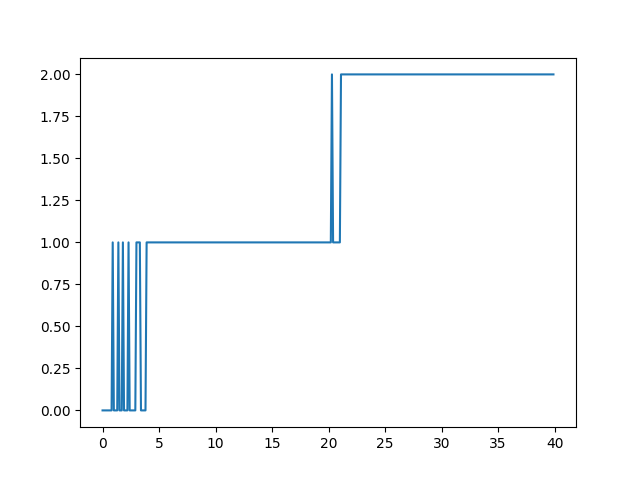
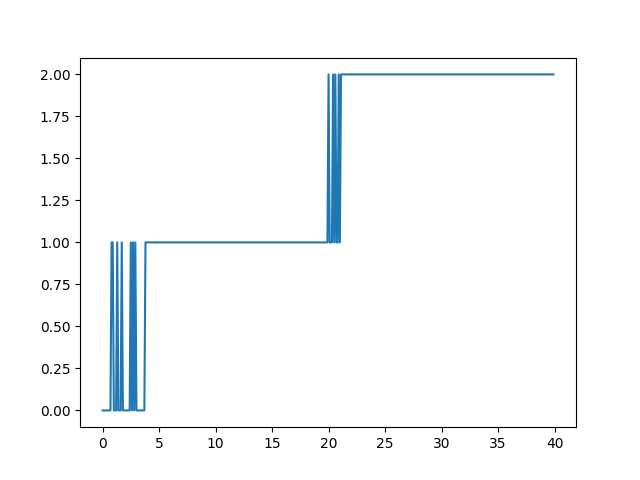
updated parameters

Changed region(s): [[0.1562, 0.5, 0.25, 0.875], [0.5, 0.1562, 0.5312, 0.5312]]

diff --git a/components/client_oracle.py b/components/client_oracle.py
@@ -74,7 +74,7 @@ class Oracle():
         self.client_dataset = np.zeros_like(self.client_dataset)
         for client in range(self.n_clients):
             p_client = np.random.dirichlet(self.client_dirichlet_alpha_class)
-            p_client = [0.2,0.8,0,0,0,0,0,0,0,0]
+            p_client = [0.33,0.33,0.34,0,0,0,0,0,0,0]
             np.random.shuffle(p_client)
             
             clients_class_indices = np.random.choice(np.arange(self.n_classes), size = self.n_datapoints,p = p_client)
@@ -96,28 +96,30 @@ class Oracle():
         #### Sample datapoints for each client 
         self.client_dataset_selection_matrix = np.zeros((self.n_clients,self.n_classes))
         #### Compute probability of each class for each client
-        p_class = np.ones((self.n_classes,1))
+        p_class = np.zeros((self.n_classes,))
         learner_class_preference = np.array(learner_class_preference)
-        p_class[learner_class_preference] = self.dist_classes[u].reshape(-1,1)
+        
+        p_class[learner_class_preference] = 1# self.dist_classes[u].reshape(-1,1)
         ### Set other values to 1 - 2*self.dist_classes[u]
-        other_classes = [i for i in range(self.n_classes) if i not in learner_class_preference]
-        p_class[other_classes] = (1 - sum(self.dist_classes[u]))/(self.n_classes-len(self.dist_classes[u]))
-        p_class = p_class.flatten()
-        participating_clients = np.where(self.client_selection_matrix==1)[0]
-        class_coefficient = self.client_class_coefficient[participating_clients].mean(axis=0)
-        class_coefficient = class_coefficient/np.sum(class_coefficient)
-        p_class = p_class*class_coefficient + 1e-6
+        # other_classes = [i for i in range(self.n_classes) if i not in learner_class_preference]
+        # p_class[other_classes] = (1 - sum(self.dist_classes[u]))/(self.n_classes-len(self.dist_classes[u]))
+        # p_class = p_class.flatten()
+        # participating_clients = np.where(self.client_selection_matrix==1)[0]
+        # class_coefficient = self.client_class_coefficient[participating_clients].mean(axis=0)
+        # class_coefficient = class_coefficient/np.sum(class_coefficient)
+        # p_class = p_class*class_coefficient + 1e-6
         p_class = p_class/np.sum(p_class)
+        # print("p_class: ",p_class)
         for client in range(self.n_clients):
             if self.client_selection_matrix[client]:
-                dataset_size = np.random.randint(self.n_datapoints//2,self.n_datapoints) ### Dataset size for each participating client
+                sample_factor = [10,3,1.1][u]
+                dataset_size = np.random.randint(self.n_datapoints//sample_factor,self.n_datapoints) ### Dataset size for each participating client
                 try:
-                    class_size_coeff = np.random.dirichlet(p_class)
+                    class_size_coeff = p_class#np.random.dirichlet(p_class)
                 except:
                     print("Error",p_class)
                     import pdb;pdb.set_trace()
                     class_size_coeff = np.ones_like(p_class)/len(p_class)
-                    
                 self.client_dataset_selection_matrix[client] = (class_size_coeff*dataset_size).astype(int)
                 self.clients[client].sample_training_data(self.client_dataset_selection_matrix[client])
 

diff --git a/main_sim_class.py b/main_sim_class.py
@@ -9,10 +9,10 @@ from components.learner import Learner
 N = 5
 O = 5
 U = 4
-M = 50
+M = 90
 policy_parameters_load = np.zeros((N,O,3*(U-1)))
-policy_parameters_load[:,:,0::3] = np.array([[M,M,M],[M,M,M],[M-30,M-25,M-20],[M-40,M-40,M-40],[0,0,0]])
-policy_parameters_load[:,:,1::3] = np.array([[M,M,M],[M,M,M],[M-20,M-15,M-10],[M-40,M-40,M-40],[0,0,0]])
+policy_parameters_load[:,:,0::3] = np.array([[M,M,M],[M-10,M-10,M-10],[M-60,M-60,M-60],[M-80,M-80,M-80],[0,0,0]])
+policy_parameters_load[:,:,1::3] = np.array([[M,M,M],[M-10,M-10,M-10],[M-60,M-60,M-60],[M-80,M-80,M-80],[0,0,0]])
 policy_parameters_load[:,:,2::3] =  np.array([[1],[1],[1],[1],[1]])
 
 ### Greedy Scheduling, Random Action
@@ -116,5 +116,5 @@ for policy in range(len(policies)):
             for m in range(min(len(evaluation_metric_rounds),M-1)):
                 evaluation_metric_mean[policy,mc_round,learner,m] = evaluation_metric_rounds[m]
 
-print(evaluation_metric_mean[0,0,0,:])
+print(evaluation_metric_mean[:,:,:,:].max(axis=2))
 print(evaluation_metric[2,:,:,0])

diff --git a/components/net.py b/components/net.py
@@ -15,7 +15,8 @@ class CNN(nn.Module):
         self.fc1 = nn.Linear(1024, 128)
         self.fc2 = nn.Linear(128, 10)
         self.device = device
-        self.optimizer = torch.optim.Adam(self.parameters(), lr=0.0001)
+        self.batch_size = 32
+        self.optimizer = torch.optim.Adam(self.parameters(), lr=0.00001)
     def forward(self, x):
         x = x.reshape(-1,1,28,28)
         x = F.relu(F.max_pool2d(self.conv1(x), 2))
@@ -32,7 +33,11 @@ class CNN(nn.Module):
         return F.nll_loss(y_pred, y)        
 
     def train(self,x,y):
-        for epoch in range(10):
+        for epoch in range(100):
+            # sample minibatch
+            idx = np.random.choice(range(x.shape[0]),self.batch_size) if x.shape[0] > self.batch_size else range(x.shape[0])
+            x = x[idx]
+            y = y[idx]
             self.optimizer.zero_grad()
             output = self.forward(x)
             loss = self.loss(output,y)
